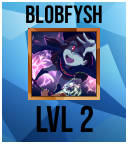
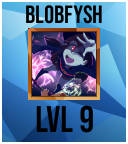
v3.12.0
Added utility command and moved setprefix as a sub-command of utility command.
Added kill feeds and dedicated level-up message channel.

Changed region(s): [[0.625, 0.75, 0.75, 0.9444]]

diff --git a/commands.js b/commands.js
@@ -461,10 +461,12 @@ class Commands {
         
                                             const killedReward = new Discord.RichEmbed()  
                                             .setTitle(`LOOT RECEIVED`)
-                                            .setDescription("Money : $" + victimRow.money + "\nExperience : `100xp`")
+                                            .setDescription("Money : " + methods.formatMoney(victimRow.money) + "\nExperience : `100xp`")
                                             .setColor(7274496)
                                             .addField("**ITEMS**", result)
                                             message.channel.send(killedReward);
+
+                                            methods.sendtokillfeed(message, sql, message.author.id, userNameID, itemUsed, damage, result, methods.formatMoney(victimRow.money));
         
                                             const embedInfo = new Discord.RichEmbed()
                                             .setTitle("💀**Kill Log**\n\nKILLER: `" + message.author.tag + " : " + message.author.id + "`\nVICTIM: `"+ client.users.get(userNameID).tag +" : " + userNameID + "`")
@@ -2179,15 +2181,17 @@ class Commands {
         if(helpCommand !== undefined){
             return methods.commandhelp(message, helpCommand, prefix);
         }
-        let otherCmds = ["`rules`","`cooldowns`","`delete`","`deactivate`","`server`","`update`","`health`","`money`","`level`","`points`","`leaderboard [s]`","`setprefix`","`discord`","`upgrade [skill]`","`backpack`"]
+        let otherCmds = ["`rules`","`cooldowns`","`delete`","`deactivate`","`server`","`update`","`health`","`money`","`level`","`points`","`leaderboard`","`discord`","`upgrade`","`backpack`"];
+        let utilities = ["`utility` -", "`setprefix`", "`setkillfeed`", "`setlevelchannel`", "`disablekillfeed`", "`disablelevelchannel`"];
         otherCmds.sort();
         const helpInfo = new Discord.RichEmbed()
         .setTitle("🐰EASTER EVENT APRIL 2 - APRIL 24!🌻 Use the `basket` command to get event items and buy steam keys from the `shop`!\n\n" + "`"+prefix+"play`** - Adds you to the game.**")
         .addField("⚔Items", "🔸`"+prefix+"use <item> [@user]`- Attack users with weapons or use items on self.\n🔸`"+prefix+"inv [@user]` - Displays inventory.\n▫`"+prefix+"trade <@user>` - Trade items and money with user.\n▫`"+prefix+"item [item]`" +
-        " - Lookup item information.\n▫`"+prefix+"shop` - Shows buy/sell values of all items.\n▫`"+prefix+"buy <item> [amount]` - Purchase an item.\n▫`"+prefix+"sell <item> [amount]` - Sell an item.\n▫`"+prefix+"sellall <rarity>` - Sell every item of specific rarity (ex. `"+prefix+"sellall common`)." +
+        " - Lookup item information.\n▫`"+prefix+"shop` - Shows buy/sell values of all items.\n▫`"+prefix+"buy <item> [amount]` - Purchase an item.\n▫`"+prefix+"sell <item> [amount]` - Sell an item.\n▫`"+prefix+"sellall [rarity]` - Sell multiple or all items (ex. `"+prefix+"sellall common`)." +
         "\n▫`"+prefix+"craft <item>` - Craft Ultra items!\n▫`"+prefix+"recycle <item>` - Recycle Legendary+ items for components.\n▫`"+prefix+ "profile [@user]` - View profile and stats of user.\n✨`" +prefix+"equip/unequip <item>` - Equip a backpack or unequip it.")
         .addField("🎲Games/Free stuff", "▫`"+prefix+"scramble <easy/hard>` - Unscramble a random word for a prize!\n▫`"+prefix+"trivia` - Answer the questions right for a reward!\n▫`"+prefix+"hourly` - Claim a free item_box every hour.\n▫`"+prefix+"vote` - Vote for the bot every 12hrs to receive an `ultra_box`\n▫`"+prefix+"gamble <type> <amount>` - Gamble your money away!")
         //.addField("🔰Stats", ,true)
+        .addField("⚙Utility", utilities.join(" "),true)
         .addField("📈Other", otherCmds.join(" "),true)
         .setColor(13215302)
         .setFooter("To see more about a command, use "+prefix+"help <command> | Need more help? Message me!")
@@ -2336,28 +2340,6 @@ class Commands {
                 message.reply("You don't have any skill points to upgrade with right now! Level up and come back.");
             }
         });
-    }
-    prefix(message, sql, prefix){//USED TO CHANGE SERVER PREFIX
-        if(message.member.hasPermission("MANAGE_GUILD")){
-            let args = message.content.split(" ").slice(1);
-            let prefixString = args[0];
-            if(prefixString == undefined || prefixString == "" || prefixString.length > 3){
-                return message.reply("Please enter a prefix up to 3 characters long! `"+prefix+"setprefix ***`")
-            }
-            else{
-                sql.get(`SELECT * FROM guildPrefix WHERE guildId ="${message.guild.id}"`).then(prefixRow => {
-                    if(prefixRow){
-                        sql.run(`DELETE FROM guildPrefix WHERE guildId ="${message.guild.id}"`);
-                    }
-                    prefixString = prefixString.toLowerCase();
-                    sql.run("INSERT INTO guildPrefix (guildId, prefix) VALUES (?, ?)", [message.guild.id, prefixString]);
-                    message.reply("Server prefix successfully changed to `" + prefixString + "`");
-                });
-            }
-        }
-        else{
-            message.reply("You need the `Manage Server` permission to use this command!")
-        }
     }
     ping(message, sql){
         message.channel.send(`Response time to server : ${Math.round(client.ping)} ms`);
@@ -3016,6 +2998,100 @@ class Commands {
     }
     attack(message, prefix){
         message.reply("Attack using the `use` command. (Ex. `"+prefix+"use rock @user`)");
+    }
+
+    //UTILITY COMMAND
+    utility(message, sql, prefix){
+        if(message.member.hasPermission("MANAGE_GUILD")){
+            let args = message.content.split(" ").slice(1);
+            let subCommand = args[0] == undefined ? "none" : args[0];
+
+            switch(subCommand.toLowerCase()){
+                //ADMIN COMMANDS
+                case 'setprefix': this.prefix(message, sql); break;
+
+                case 'setkillfeed': this.setkillfeed(message, sql); break;
+                case 'disablekillfeed': this.disablekillfeed(message, sql); break;
+
+                case 'setlevelchannel': this.setlevelchannel(message, sql); break;
+                case 'disablelevelchannel': this.disablelevelchannel(message, sql); break;
+
+                case 'getkillfeed': this.getkillfeed(message, sql); break;
+
+                default: message.reply("You need to specify a sub-command! `" + prefix + "help util`")
+            }
+        }
+        else{
+            message.reply("You need the `Manage Server` permission to use this command!");
+        }
+    }
+
+    prefix(message, sql, prefix){
+        let args = message.content.split(" ").slice(2);
+        let prefixString = args[0];
+        if(prefixString == undefined || prefixString == "" || prefixString.length > 3){
+            return message.reply("Please enter a prefix up to 3 characters long! `"+prefix+"setprefix ***`")
+        }
+        else{
+            sql.get(`SELECT * FROM guildPrefix WHERE guildId ="${message.guild.id}"`).then(prefixRow => {
+                if(prefixRow){
+                    sql.run(`DELETE FROM guildPrefix WHERE guildId ="${message.guild.id}"`);
+                }
+                prefixString = prefixString.toLowerCase();
+                sql.run("INSERT INTO guildPrefix (guildId, prefix) VALUES (?, ?)", [message.guild.id, prefixString]);
+                message.reply("Server prefix successfully changed to `" + prefixString + "`");
+            });
+        }
+    }
+    setkillfeed(message, sql){
+        sql.get(`SELECT * FROM guildInfo WHERE guildId ="${message.guild.id}"`).then(guildRow => {
+            if(!guildRow) sql.run("INSERT INTO guildInfo (guildId, killChan, levelChan) VALUES (?, ?, ?)", [message.guild.id, "", ""]);
+
+            sql.run(`UPDATE guildInfo SET killChan = ${message.channel.id} WHERE guildId = ${message.guild.id}`);
+
+            message.reply("✅ Set this channel as the kill feed channel!");
+        });
+    }
+    disablekillfeed(message, sql){
+        sql.get(`SELECT * FROM guildInfo WHERE guildId ="${message.guild.id}"`).then(guildRow => {
+            if(!guildRow) sql.run("INSERT INTO guildInfo (guildId, killChan, levelChan) VALUES (?, ?, ?)", [message.guild.id, "", ""]);
+
+            sql.run(`UPDATE guildInfo SET killChan = "" WHERE guildId = "${message.guild.id}"`);
+            message.reply("✅ Disabled kill feed for this server!");
+        });
+    }
+
+    setlevelchannel(message, sql){
+        sql.get(`SELECT * FROM guildInfo WHERE guildId ="${message.guild.id}"`).then(guildRow => {
+            if(!guildRow) sql.run("INSERT INTO guildInfo (guildId, killChan, levelChan) VALUES (?, ?, ?)", [message.guild.id, "", ""]);
+
+            sql.run(`UPDATE guildInfo SET levelChan = "${message.channel.id}" WHERE guildId = "${message.guild.id}"`);
+            message.reply("✅ Now sending level up messages to this channel!");
+        });
+    }
+    disablelevelchannel(message, sql){
+        sql.get(`SELECT * FROM guildInfo WHERE guildId ="${message.guild.id}"`).then(guildRow => {
+            if(!guildRow) sql.run("INSERT INTO guildInfo (guildId, killChan, levelChan) VALUES (?, ?, ?)", [message.guild.id, "", ""]);
+
+            sql.run(`UPDATE guildInfo SET levelChan = "" WHERE guildId = "${message.guild.id}"`);
+            message.reply("✅ Disabled level channel for this server!");
+        });
+    }
+
+    getkillfeed(message, sql){
+        sql.get(`SELECT * FROM guildInfo WHERE guildId ="${message.guild.id}"`).then(guildRow => {
+            message.reply(guildRow.killChan);
+            console.log(guildRow.killChan);
+
+            try{
+                message.guild.channels.get(guildRow.killChan).send("Killchannel works!");
+                message.guild.channels.get(guildRow.levelChan).send("Levelchannel works!");
+            }
+            catch(err){
+                console.log(err);
+                message.reply("There is none!");
+            }
+        });
     }
 
     //MODERATOR COMMANDS

diff --git a/methods.js b/methods.js
@@ -2,12 +2,73 @@ const Discord = require("discord.js");
 const helpCmd = require('./json/_help_commands.json'); //opens help commands .json file
 const itemImg = require('./json/_item_images.json');
 const seedrandom = require('seedrandom');
+const Jimp = require('jimp');
 const config = require('./json/_config.json');
 const itemdata = require("./json/completeItemList");
 const fs = require("fs");
 var rng = seedrandom();
 
 class Methods {
+    //PLAY COMMAND
+    sendlvlupmsg(message, sql, level, levelitem){
+        sql.get(`SELECT * FROM guildInfo WHERE guildId ="${message.guild.id}"`).then(guildRow => {
+            console.log(guildRow.levelChan);
+            Jimp.read("./userImages/LvlUp.png").then(test => { //start creating levelup image
+                Jimp.read(message.author.avatarURL).then(avatar => {
+                    avatar.resize(64,64);
+                    test.quality(70);
+
+                    Jimp.loadFont("./fonts/BebasNeue37.fnt").then(font2 => {
+                        test.print(font2, 0, 0, {
+                            text: "lvl " + level,
+                            alignmentX: Jimp.HORIZONTAL_ALIGN_CENTER,
+                            alignmentY: Jimp.VERTICAL_ALIGN_BOTTOM
+                        }, 128, 144);
+                        Jimp.loadFont("./fonts/BebasNeue25.fnt").then(font => {
+                        test.print(
+                            font,
+                            0,
+                            0,
+                            {
+                            text: message.author.username.substring(0,13),
+                            alignmentX: Jimp.HORIZONTAL_ALIGN_CENTER,
+                            alignmentY: Jimp.VERTICAL_ALIGN_TOP
+                            },
+                            128,
+                            144
+                        );
+                        //test.print(font, 0, 0, message.author.username);
+                        test.composite(avatar, 32, 32);
+                        test.write("./userImages/userLvl.jpeg");
+                        test.getBuffer(Jimp.AUTO, (err, buffer) => {
+                            if(err){
+                                console.log("oh no");
+                                return;
+                            }
+                            if(guildRow.levelChan !== undefined && guildRow.levelChan !== ""){
+                                message.guild.channels.get(guildRow.levelChan).send(message.author + `\nLEVEL **${level}!**\n` + "**YOU EARNED A 🌟 SKILL POINT!** Use it with the `upgrade` command." + `\n**Item received!**  ` + "`" + levelitem + "`", {
+                                    file: buffer
+                                }).catch(err => {
+                                    message.reply(`LEVEL **${level}!**\n` + "**YOU EARNED A 🌟 SKILL POINT!** Use it with the `upgrade` command." + `\n**Item received!**  ` + "`" + levelitem + "`", {
+                                        file: buffer
+                                    });
+                                });
+                            }
+                            else{
+                                message.reply(`LEVEL **${level}!**\n` + "**YOU EARNED A 🌟 SKILL POINT!** Use it with the `upgrade` command." + `\n**Item received!**  ` + "`" + levelitem + "`", {
+                                    file: buffer
+                                });
+                            }
+                        });
+                        
+                    });
+                    
+                    });
+                });
+            });
+        });
+    }
+
     //GENERAL FUNCTIONS, CAN BE USED BY MULTIPLE COMMANDS
     additem(sql, userId, item, amount){
         sql.get(`SELECT * FROM items WHERE userId ="${userId}"`).then(row => {
@@ -931,6 +992,24 @@ class Methods {
             //idea for making each weapon have separate cd, (row[itemUsed].cooldown.scoreRow) so... ((itemdata[itemUsed].cooldown.seconds * 1000 - ((new Date()).getTime() - row[itemdata[itemUsed].cooldown.scoreRow])) / 60000).toFixed(1) + " minutes`"
         });
     }
+    sendtokillfeed(message, sql, killerId, victimId, itemName, itemDmg, itemsStolen, moneyStolen){
+        sql.get(`SELECT * FROM guildInfo WHERE guildId ="${message.guild.id}"`).then(guildRow => {
+            if(guildRow.killChan !== undefined && guildRow.killChan !== ""){
+                const killEmbed = new Discord.RichEmbed()
+                .setTitle(message.guild.members.get(killerId).displayName + " 🗡 " + message.guild.members.get(victimId).displayName + " 💀")
+                .setDescription("**Weapon**: `" + itemName + "` - **" + itemDmg + " damage**")
+                .setColor(16721703)
+                .setTimestamp()
+
+                message.guild.channels.get(guildRow.killChan).send(killEmbed).catch(err => {
+                    return;//didn't work...
+                });
+            }
+            else{
+                return; //no killfeed on server...
+            }
+        });
+    }
 
     //TRADE COMMAND METHODS
     getTotalItmCountFromList(list){
@@ -1361,6 +1440,22 @@ class Methods {
         });
         fs.writeFile('testJSONfile2.json',JSON.stringify(jsonFile, null, 4), function(err) {
             console.log("complete");
+        });
+    }
+    getActiveAccount(sql, userId){
+        return sql.all(`SELECT * FROM userGuilds WHERE userId ="${userId}"`).then(rows => {
+            var userGuilds = [];
+            var servers = 0;
+            rows.forEach(row => {
+                userGuilds.push(client.guilds.get(row.guildId).name);
+                servers++;
+            });
+            console.log(userGuilds);
+            console.log(servers);
+            return {
+                guildsArr: userGuilds,
+                count: servers
+            }
         });
     }
 

diff --git a/index.js b/index.js
@@ -4,6 +4,7 @@ global.client = new Discord.Client({
     messageCacheMaxSize: 50
 });
 const commands = require("./commands");
+const methods = require("./methods");
 const votes = require("./votes");
 const sql = require("sqlite"); //sql library used to save data
 sql.open(`./score.sqlite`); //opens sql data table, or makes one if it doesn't exist
@@ -58,7 +59,7 @@ global.weapCooldown = new Set();  //weapon cooldown stuff
 var xpNeeded; //is set to players xp needed when they send a message | used to determine level and used in t-inv command to calculate xp left until next level
 var totalXpNeeded = 0;
 
-const version = "3.11.2";
+const version = "3.12.0";
 
 client.on(`ready`,() => {
     console.log(" _                    _                           _ \n"+
@@ -73,6 +74,7 @@ client.on(`ready`,() => {
 
     if(config.debug == "false"){
         setInterval(() => {
+            methods.sendlbtoweb(sql);
             dbl.postStats(client.guilds.size);
         }, 1800000);
     }
@@ -350,7 +352,7 @@ client.on(`ready`,() => {
         });
         console.log(cdsAdded + " cooldowns added to users.")
     });
-    sql.run(`CREATE TABLE IF NOT EXISTS guildNPC (guildId INTEGER, health INTEGER, damage INTEGER, level INTEGER, item STRING)`);
+    sql.run(`CREATE TABLE IF NOT EXISTS guildInfo (guildId TEXT, killChan TEXT, levelChan TEXT)`);
     /*
     sql.run("ALTER TABLE scores ADD deactivateTime").then(row => {
     }).catch(() => {
@@ -724,48 +726,7 @@ client.on("message", (message) => {
                         }
                     }).catch();
 
-                    Jimp.read("./userImages/LvlUp.png").then(test => { //start creating levelup image
-                        Jimp.read(message.author.avatarURL).then(avatar => {
-                            avatar.resize(64,64);
-                            test.quality(70);
-
-                            Jimp.loadFont("./fonts/BebasNeue37.fnt").then(font2 => {
-                                test.print(font2, 0, 0, {
-                                    text: "lvl " + (row.level + 1),
-                                    alignmentX: Jimp.HORIZONTAL_ALIGN_CENTER,
-                                    alignmentY: Jimp.VERTICAL_ALIGN_BOTTOM
-                                }, 128, 144);
-                                Jimp.loadFont("./fonts/BebasNeue25.fnt").then(font => {
-                                test.print(
-                                    font,
-                                    0,
-                                    0,
-                                    {
-                                    text: message.author.username.substring(0,13),
-                                    alignmentX: Jimp.HORIZONTAL_ALIGN_CENTER,
-                                    alignmentY: Jimp.VERTICAL_ALIGN_TOP
-                                    },
-                                    128,
-                                    144
-                                );
-                                //test.print(font, 0, 0, message.author.username);
-                                test.composite(avatar, 32, 32);
-                                test.write("./userImages/userLvl.jpeg");
-                                test.getBuffer(Jimp.AUTO, (err, buffer) => {
-                                    if(err){
-                                        console.log("oh no");
-                                        return;
-                                    }
-                                    message.reply(`LEVEL **${row.level + 1}!**\n` + "**YOU EARNED A 🌟 SKILL POINT!** Use it with the `upgrade` command." + `\n**Item received!**  ` + "`" + levelItem + "`", {
-                                    file: buffer
-                                    });
-                                });
-                                
-                            });
-                            
-                            });
-                        });
-                    });
+                    methods.sendlvlupmsg(message, sql, row.level + 1, levelItem);
                 }
                 sql.get(`SELECT * FROM xpBoost WHERE boost`).then(boostAmount => {
                     sql.get(`SELECT * FROM userGuilds WHERE userId ="${message.author.id}" AND guildId = "${message.guild.id}"`).then(playRow => {
@@ -827,7 +788,6 @@ client.on("message", (message) => {
                 case 'rules': commands.rules(message); break;
                 case 'upgrade': commands.upgrade(message, sql, prefix); break;
                 case 'ping': commands.ping(message, sql); break;
-                case 'setprefix': commands.prefix(message, sql, prefix); break;
                 case 'invite':
                 case 'discord': commands.discord(message); break;
                 case 'heal': commands.heal(message, prefix); break;
@@ -855,6 +815,11 @@ client.on("message", (message) => {
                 case 'deactivate': commands.deactivate(message, sql, prefix); break;
                 case 'suicide':
                 case 'delete': commands.delete(message, sql, prefix); break;
+
+                //UTILITY COMMAND HANDLER
+                case 'util':
+                case 'utility': commands.utility(message, sql, prefix); break;
+
                 //MODERATOR COMMANDS
                 case 'modhelp': commands.modhelp(message, moddedUsers, prefix); break;
                 case 'ban': commands.ban(message, sql, moddedUsers, bannedUsers, prefix); break;
